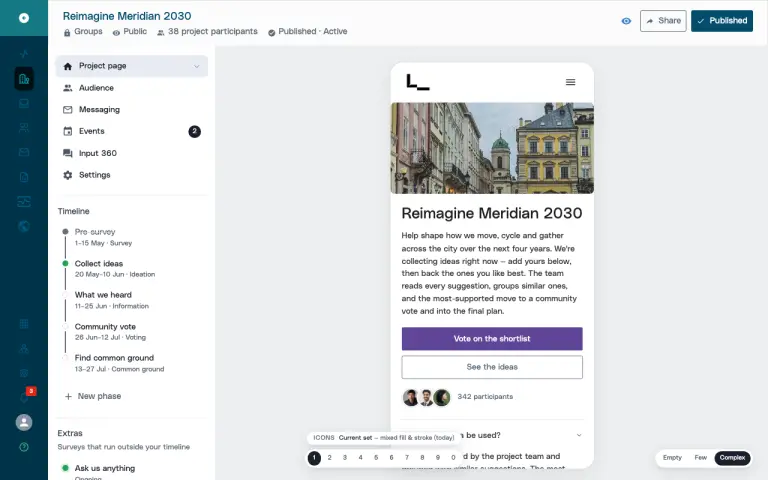
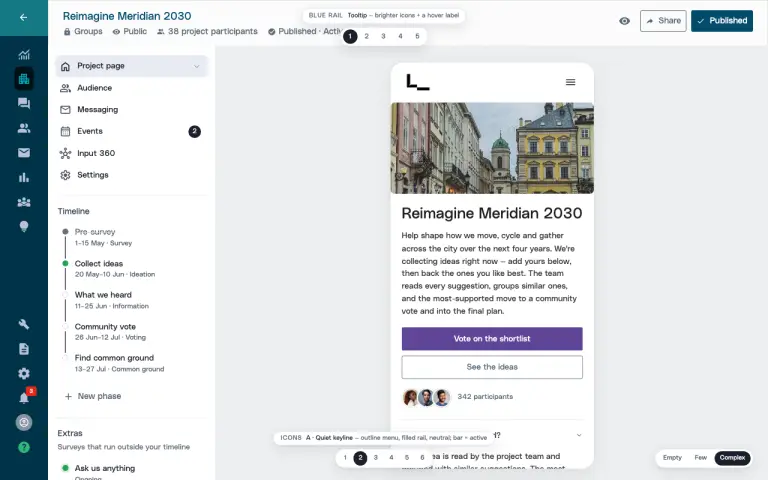
editor-builder-v3: collapse phone empty state to option 2 (no timeline)
Lock the phone empty state: real title + generic placeholder description +
skeleton participation box; header image stays a ghost. Drop the timeline
skeleton. Copy says "participants" (not "residents") so it fits cities,
organisations, or anyone. Remove the temporary phone empty-state picker.

diff --git a/parallel-participation/prototypes/parallel-editor-builder-v3/index.html b/parallel-participation/prototypes/parallel-editor-builder-v3/index.html
@@ -156,17 +156,6 @@
   .phone .es-sk--pill { height: 30px; border-radius: 999px; }
   /* Generic shipped placeholder copy — readable but clearly provisional. */
   .phone .es-default-lead { margin: 0 0 12px; font-size: var(--gv-fs-base); line-height: 1.55; color: #8a94a1; }
-  /* A row of timeline phase chips (real or skeleton) under the Timeline heading. */
-  .phone .es-tl-skel { display: flex; flex-wrap: wrap; gap: 8px; }
-  .phone .es-tl-chip {
-    font-size: 12.5px; color: #8a94a1; background: #fff;
-    border: 1px dashed #cbd5e1; border-radius: 999px; padding: 6px 13px;
-  }
-  .phone .es-tl-chip .n {
-    display: inline-flex; align-items: center; justify-content: center;
-    width: 17px; height: 17px; border-radius: 999px; margin-right: 6px;
-    background: #e7ecef; color: #8a94a1; font-size: 10.5px; font-weight: 700;
-  }
 
   /* ── Preview FRAME variants ─────────────────────────────────────────────────
      Two minimal artboards (Phone / Window), same quiet 1px-outline treatment. The
@@ -3849,14 +3838,8 @@
 
 <!-- v3 has no hidden-survey switcher — it commits to the "Link only" meta line (v2 #3). -->
 
-<!-- Empty-state TIMELINE is locked in (upright worked example). The phone empty-state is
-     still in exploration — this temporary picker swaps 3 default-scaffold options. -->
-<div class="empty-chip phone-empty-chip" role="group" aria-label="Phone empty-state option" hidden>
-  <span class="label">Phone empty</span>
-  <button data-pe="1" class="on" title="Real title + ghosts + skeleton participation/timeline" onclick="setPhoneEmpty(1, this)">1</button>
-  <button data-pe="2" title="Ships with generic default text + participation box + timeline skeleton" onclick="setPhoneEmpty(2, this)">2</button>
-  <button data-pe="3" title="Full default scaffold — timeline skeleton mirrors the panel example" onclick="setPhoneEmpty(3, this)">3</button>
-</div>
+<!-- Empty state is locked in (timeline panel + phone scaffold); the explorer pickers
+     live on the v2 prototype only. -->
 
 <!-- ============ ICON treatment explorer — bottom-centre ============ -->
 <div class="icon-chip" role="group" aria-label="Icon treatment">
@@ -4379,57 +4362,27 @@
       + '<button class="sec-add muted" onclick="setView(&#39;add-survey&#39;)">' + ES_PLUS + 'New survey</button>';
   }
 
-  // ── Phone empty-state EXPLORATION (temporary picker, 3 options) ─────────────
-  // The title is REAL (the project is created with one). Header image stays a ghost (not
-  // known). The exploration: how much default scaffolding ships with a new project —
-  // generic body text, a participation box, a timeline skeleton. window.ppPhoneEmpty (1–3).
-  window.ppPhoneEmpty = window.ppPhoneEmpty || 1;
+  // ── Phone empty state (locked in) ───────────────────────────────────────────
+  // A freshly-created project isn't truly blank: the title is REAL (created with one),
+  // it ships with a generic, organisation-agnostic placeholder description, and a
+  // skeleton participation box. The header image stays a ghost (not known yet); no
+  // timeline section until phases exist.
   const ES_REAL_TITLE = 'Reimagine Meridian 2030';
 
-  const esImgGhost = () => '<div class="mt-2 ghost-slot tall">' + ES_IMG + 'Add a header image</div>';
-  const esRealTitle = () => '<div class="pp-edit" data-edit="title"><h1 class="gv-title h1 pp-fo__title" style="margin-top:14px;">' + ES_REAL_TITLE + '</h1></div>';
-  const esDescGhost = () => '<div class="ghost-slot mt-3" style="justify-content:flex-start;padding:14px;text-align:left;min-height:60px;"><span style="flex-shrink:0;align-self:flex-start;margin-top:1px;display:inline-flex;">' + ES_PLUS + '</span><span style="flex:1;">Add a short description explaining what this project is about</span></div>';
-  const esDescDefault = () => '<p class="es-default-lead">Tell residents what this project is about and how they can take part. This placeholder text ships with every project — edit it to describe yours.</p>';
-  // Participation-box skeleton (greyed CTA bars + participant row) — content not configured yet.
-  const esPboxSkeleton = () => '<div class="pp-fo__pbox" style="margin-top:14px;">'
-    + '<div class="pp-fo__cta"><span class="es-sk es-sk--btn" style="width:100%;"></span><span class="es-sk es-sk--btn" style="width:100%;"></span></div>'
-    + '<div class="gv-participants pp-fo__parts" style="margin-top:12px;"><span class="es-sk es-sk--av"></span><span class="es-sk es-sk--av" style="margin-left:-8px;"></span><span class="es-sk es-sk--av" style="margin-left:-8px;"></span><span class="es-sk es-sk--line" style="width:96px;margin:0 0 0 8px;"></span></div></div>';
-  // Timeline section with a skeleton stepper (no real phases yet). plain = 3 unlabelled
-  // skeleton pills; mirror = labelled example chips matching the editor panel's example.
-  const esTimelineSkeleton = (mirror) => {
-    const chips = mirror
-      ? ['Collect ideas', 'Vote on the shortlist', 'Share what we heard']
-          .map((t, i) => '<span class="es-tl-chip"><span class="n">' + (i + 1) + '</span>' + t + '</span>').join('')
-      : '<span class="es-sk es-sk--pill" style="width:96px;"></span><span class="es-sk es-sk--pill" style="width:120px;"></span><span class="es-sk es-sk--pill" style="width:88px;"></span>';
-    return '<div class="pp-fo__pad pp-fo__pad--grey"><h2 class="gv-title h3 pp-fo__h2">Timeline</h2><div class="es-tl-skel pp-fo__stepper">' + chips + '</div></div>';
-  };
-
   function emptyPhone() {
-    const n = window.ppPhoneEmpty || 1;
-    if (n === 2) { // Ships with generic default text + participation box + timeline skeleton
-      return '<div class="pp-fo"><div class="px-4 pt-3 pb-5">'
-        + esImgGhost() + esRealTitle() + esDescDefault() + esPboxSkeleton()
-        + '</div>' + esTimelineSkeleton(false) + '</div>';
-    }
-    if (n === 3) { // Full default scaffold — timeline skeleton mirrors the panel's example
-      return '<div class="pp-fo"><div class="px-4 pt-3 pb-5">'
-        + esImgGhost() + esRealTitle() + esDescDefault() + esPboxSkeleton()
-        + '</div>' + esTimelineSkeleton(true) + '</div>';
-    }
-    // #1 Real title + ghosts for image/description + a participation-box & timeline skeleton
     return '<div class="pp-fo"><div class="px-4 pt-3 pb-5">'
-      + esImgGhost() + esRealTitle() + esDescGhost() + esPboxSkeleton()
-      + '</div>' + esTimelineSkeleton(false) + '</div>';
-  }
-
-  // Temporary explorer chip — flips the phone empty-state between the 3 default-scaffold
-  // options. Panel stays the locked timeline. Collapse to the chosen one once decided.
-  function setPhoneEmpty(n, btn) {
-    window.ppPhoneEmpty = n;
-    document.querySelectorAll('.phone-empty-chip button').forEach(b => b.classList.remove('on'));
-    const b = btn || document.querySelector('.phone-empty-chip button[data-pe="' + n + '"]');
-    if (b) b.classList.add('on');
-    if (window.ppState === 'empty') renderPhone('empty');
+      // Header image — still a ghost (not configured yet).
+      + '<div class="mt-2 ghost-slot tall">' + ES_IMG + 'Add a header image</div>'
+      // Real project title (the project is created with one).
+      + '<div class="pp-edit" data-edit="title"><h1 class="gv-title h1 pp-fo__title" style="margin-top:14px;">' + ES_REAL_TITLE + '</h1></div>'
+      // Generic placeholder description that ships with every project — "participants",
+      // not "residents", so it fits cities, organisations, or anyone running this.
+      + '<p class="es-default-lead">Tell participants what this project is about and how they can take part. This placeholder text ships with every project — edit it to describe yours.</p>'
+      // Participation-box skeleton (greyed CTA bars + participant row) — not configured yet.
+      + '<div class="pp-fo__pbox" style="margin-top:14px;">'
+      + '<div class="pp-fo__cta"><span class="es-sk es-sk--btn" style="width:100%;"></span><span class="es-sk es-sk--btn" style="width:100%;"></span></div>'
+      + '<div class="gv-participants pp-fo__parts" style="margin-top:12px;"><span class="es-sk es-sk--av"></span><span class="es-sk es-sk--av" style="margin-left:-8px;"></span><span class="es-sk es-sk--av" style="margin-left:-8px;"></span><span class="es-sk es-sk--line" style="width:96px;margin:0 0 0 8px;"></span></div></div>'
+      + '</div></div>';
   }
 
   function setProjectState(state, btn) {
@@ -4443,10 +4396,6 @@
 
     // Reset audience visibility
     if (audienceNav) audienceNav.style.display = '';
-
-    // Temporary phone empty-state explorer — only in the empty state.
-    const phoneEmptyChip = document.querySelector('.phone-empty-chip');
-    if (phoneEmptyChip) phoneEmptyChip.hidden = (state !== 'empty');
 
     // Phone preview content is rebuilt per state: ghost placeholders for 'empty',
     // a real GoVocal mobile FO project page (gv-* components) for 'few' / 'complex'.
